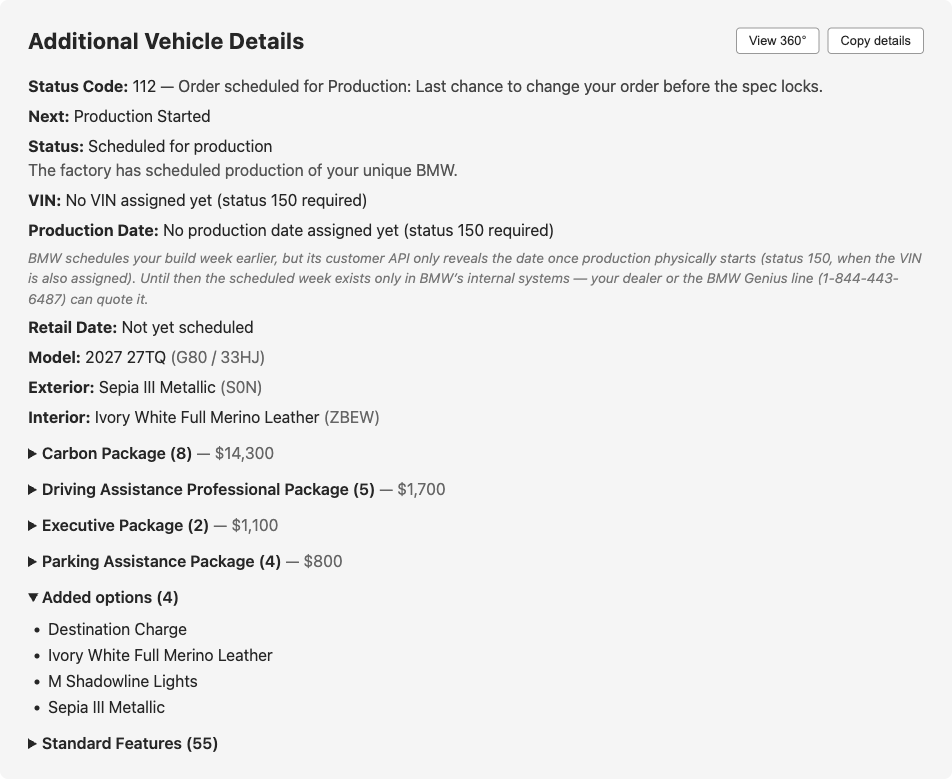
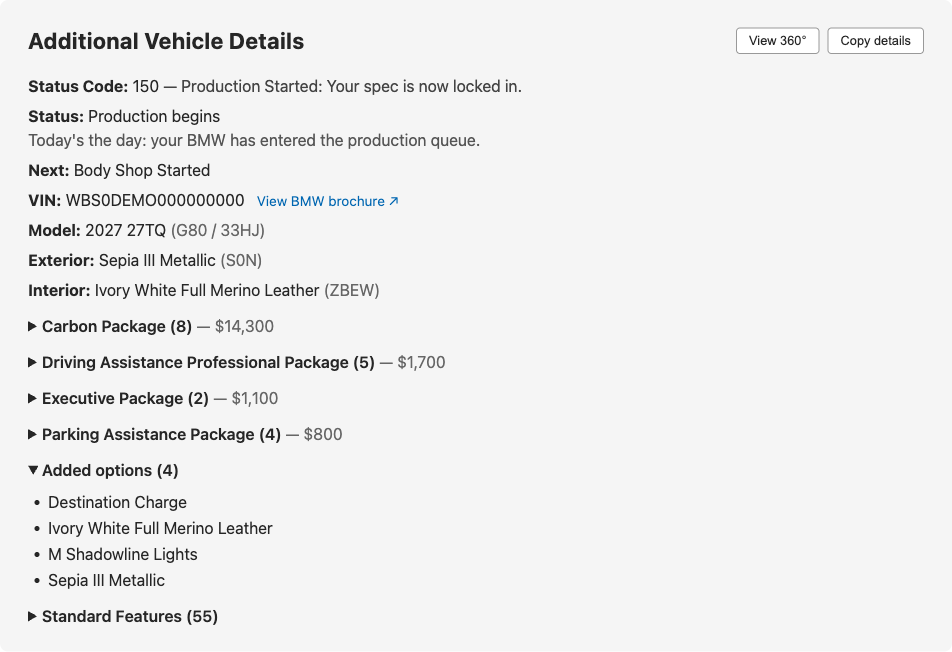
README: refresh screenshot to the v2.2.0 panel; fix status + test count
Replace the status-112 screenshot with a current render (status 150):
Status-above-Next, VIN + brochure link, no date rows, folded Carbon
package, package prices. Update alt text/caption to match, and correct
the test count 44 -> 46.

Changed region(s): [[0.0305, 0.0307, 0.9748, 0.9816]]

diff --git a/README.md b/README.md
@@ -10,10 +10,10 @@ threads — digging through DevTools for the hidden response with your status co
 and options. This extension does all of that for you. One click, right on the
 page:
 
-![The Additional Vehicle Details panel showing a 2027 M3 order at status 112: decoded status with plain-language note, next milestone, VIN/date placeholders with explainer, model and color codes, and the priced option packages](docs/panel.png)
+![The Additional Vehicle Details panel for a 2027 M3 order at status 150: decoded status with a plain-language note, the current status message, the next milestone, the VIN with a link to BMW's official brochure, model and color codes with decoded paint/upholstery, and the priced option packages with the Carbon Package contents folded in](docs/panel.png)
 
-*A real example (order at status 112) — every line is data BMW's page already
-downloaded but never shows you.*
+*A real example (order at status 150 — production started) — every line is data
+BMW's page already downloaded but never shows you.*
 
 ## What you'll see
 
@@ -99,7 +99,7 @@ memory, never stored).
 Requires Chromium 111+ (static MAIN-world content scripts). After editing code:
 reload the extension on `chrome://extensions/`, then reload the BMW tab.
 
-Zero-dependency test suite (Node 20+): `npm test` — 44 tests covering the
+Zero-dependency test suite (Node 20+): `npm test` — 46 tests covering the
 capture hooks, panel rendering (including payload shapes taken from live
 captures), and manifest invariants.
 
